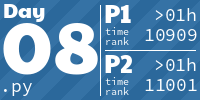
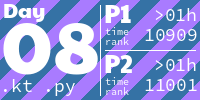
Add day 8

diff --git a/2022/08/08.kt b/2022/08/08.kt
@@ -1,0 +1,48 @@
+
+
+fun main() {
+    val s = generateSequence(::readlnOrNull).toList()
+    val indices = (0..s.size-1).toList()
+    val visible: MutableSet<Pair<Int, Int>> = mutableSetOf()
+    var highest: Int
+    for (i in indices) {
+        for (order in listOf(indices, indices.reversed())) {
+            highest = 0
+            for (x in order) {
+                if (highest < s[i][x].code)
+                    visible.add(Pair(i, x))
+                highest = maxOf(s[i][x].code, highest)
+            }
+            highest = 0
+            for (y in order) {
+                if (highest < s[y][i].code)
+                    visible.add(Pair(y, i))
+                highest = maxOf(s[y][i].code, highest)
+            }
+        }
+    }
+    println(visible.size)
+
+    var best = 0
+    fun is_valid(y: Int, x: Int, size: Int) = 0 <= y && y < size && 0 <= x && x < size
+    for (Y in indices) {
+        for (X in indices) {
+            var scenic = 1
+            for ((ya, xa) in listOf(Pair(1, 0), Pair(-1, 0), Pair(0, 1), Pair(0, -1))) {
+                var dist = 0
+                var y = Y+ya
+                var x = X+xa
+                while (is_valid(y, x, s.size)) {
+                    dist += 1
+                    if (s[y][x] >= s[Y][X])
+                        break
+                    y = y+ya
+                    x = x+xa
+                }
+                scenic *= dist
+            }
+            best = maxOf(best, scenic)
+        }
+    }
+    println(best)
+}

diff --git a/README.md b/README.md
@@ -27,7 +27,7 @@
 <a href="2022/07/07.kt">
   <img src="Media/2022/07.png" width="161px">
 </a>
-<a href="2022/08/08.py">
+<a href="2022/08/08.kt">
   <img src="Media/2022/08.png" width="161px">
 </a>
 <h1 align="center">
